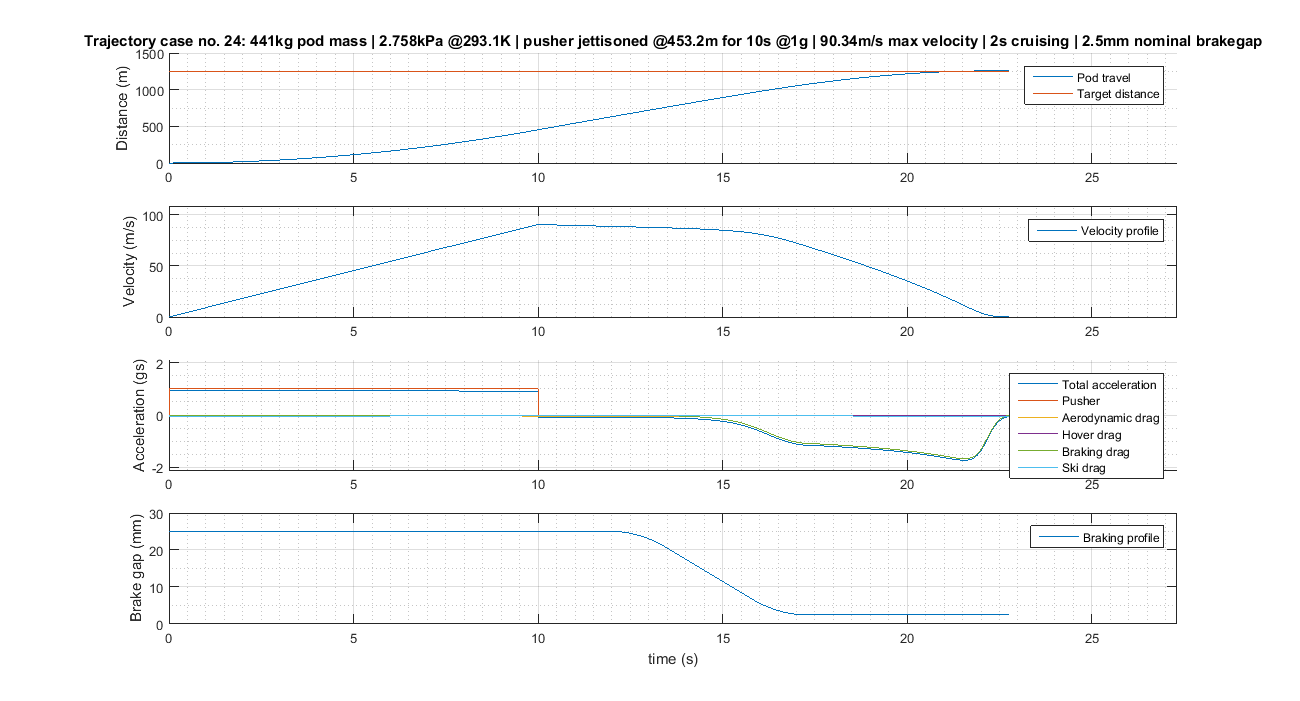
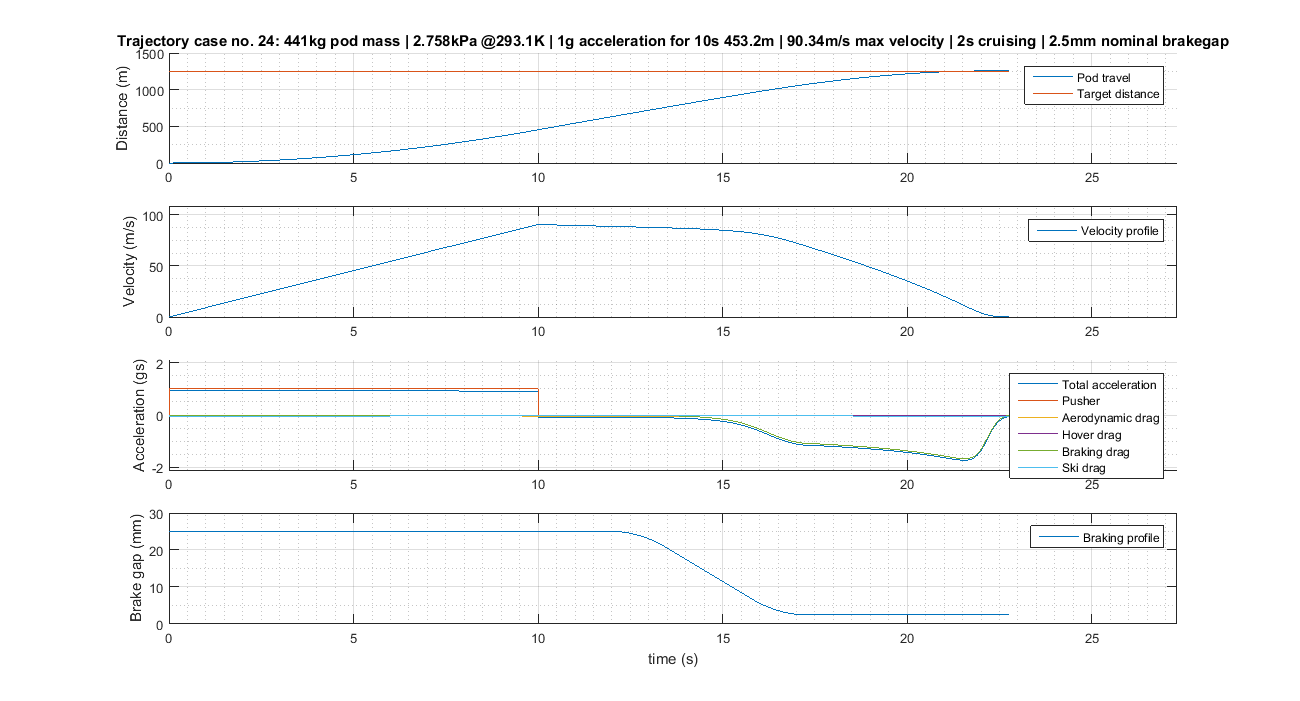
added case no. 24

Changed region(s): [[0.0615, 0.03, 0.9846, 0.0899]]

diff --git a/simParameters.m b/simParameters.m
@@ -2,11 +2,50 @@
 g = 9.81;                                   % Gravitational constant
 
 %Input
-caseno = 024;
+caseno = 025;
 
 %%%% Trajectory & Simulation Constraints %%%%
 switch caseno
     
+    case 025    % Run as deltat_pusher constrained
+        mpod = 441.;                % Total pod mass (kg)
+        dt = 0.001;                 % time step (s)
+        xf = 1250;                  % Target distance (m)
+        xdotf = 0.01;               % Target final velocity at xf (m/s)
+        gForce_pusher = 0.5;        % Pusher acceleration (g's)
+%         deltax_pusher = 312;     % Desired max push distance (max: 487.68m or 1600ft) (m)
+        deltax_pusher_max = 487.68; % Max push distance (max: 487.68m or 1600ft) (m)
+%         vpod_max = 90.;            % Constraint on max velocity (m/s)
+        deltat_pusher = 20;     % Desired max push distance (max: 487.68m or 1600ft) (m)
+        deltat_cruising = 2;        % Cruising time between pusher and deceleration phase (minimum 2s required) (s)
+%         gForce_brakedrag = 1.0;     % Constraint on max braking force (g's)
+        brakegapNom = 2.5;          % Nominal brake gap during controlled braking phase (mm)
+        deltax_dangerzone = 50;     % Distance between final target and end of track (DANGER ZONE!!!) (m)
+        z_nom = 0.016;              % Nominal hover height (m) based on pod mass and 8 hover engines
+        brakesmoving = false;       % booleam initial condition for brakes used in simulink code
+
+        %%%% Pressure %%%%
+        Ppsi = 0.4;              % Atmospheric air pressure inside SpaceX test tube (Psi)
+%         Ppsi = 0.1250;              % Atmospheric air pressure inside SpaceX test tube (Psi)
+%         Ppsi = 3.7188;              % Atmospheric air pressure inside SpaceX test tube (Psi)
+%         Ppsi = 7.3125;              % Atmospheric air pressure inside SpaceX test tube (Psi)
+%         Ppsi = 10.9063;             % Atmospheric air pressure inside SpaceX test tube (Psi)
+%         Ppsi = 14.5;                % Atmospheric air pressure inside SpaceX test tube (Psi)
+        
+        % Using ideal gas law, P = rho*R*T, solve for rho 
+        P = 6894.76*Ppsi;           % Atmospheric air pressure inside SpaceX test tube (Pa)
+        R = 287.05;                 % Ideal gas constant (J/(kg*K))
+        T = 293.15;                 % Atmospheric air temperature inside SpaceX test tube (K)
+        rho = P/(R*T);              % Air density inside SpaceX test tube(kg/m^3)
+%         rho = 0.100098;             % Air density inside SpaceX test tube(kg/m^3)
+%         rho = 1.2754;               % Standard Air density at 20 degC, sealevel(kg/m^3)
+
+        %%%% Relative Error (eta is positive for under-estimated case; negative for over-estimated case)%%%%
+        eta_aerodrag = 0.0;        % Estimated aerodynamic drag relative error
+        eta_hoverdrag = 0.0;       % Estimated hover-engine drag relative error
+        eta_brakedrag = 0.0;       % Estimated brake drag relative error
+        eta_skidrag = 0.0;         % Estimated ski drag relative error
+        
     case 024    % Run as deltat_pusher constrained
         mpod = 441.;                % Total pod mass (kg)
         dt = 0.001;                 % time step (s)

diff --git a/Trajectory.m b/Trajectory.m
@@ -243,7 +243,7 @@ axis([0 1.2*t(length(t)) 0 1.2*xf])
 
 grid on
 grid minor    
-title(['Trajectory case no. ' num2str(caseno) ': ' num2str(mpod) 'kg pod mass | ' num2str(P/1000,4) 'kPa @' num2str(T,4) 'K | pusher jettisoned @' num2str(x1,4) 'm for ' num2str(t1,2) 's @' num2str(gForce_pusher,2) 'g | ' num2str(xdot1,4) 'm/s max velocity | ' num2str(deltat_cruising,2) 's cruising | ' num2str(brakegapNom) 'mm nominal brakegap'])
+title(['Trajectory case no. ' num2str(caseno) ': ' num2str(mpod) 'kg pod mass | ' num2str(P/1000,4) 'kPa @' num2str(T,4) 'K | ' num2str(gForce_pusher,2) 'g acceleration for ' num2str(t1,2) 's ' num2str(x1,4) 'm | ' num2str(xdot1,4) 'm/s max velocity | ' num2str(deltat_cruising,2) 's cruising | ' num2str(brakegapNom) 'mm nominal brakegap'])
 ylabel('Distance (m)')
 legend('Pod travel','Target distance');
 
@@ -296,7 +296,7 @@ plot([xf+deltax_dangerzone xf+deltax_dangerzone],[0 1.1*xdot2],'r')
 axis([0 1.2*xf 0 1.1*xdot2])
 grid on
 grid minor
-title(['Trajectory case no. ' num2str(caseno) ': ' num2str(mpod) 'kg pod mass | ' num2str(P/1000,4) 'kPa @' num2str(T,4) 'K | pusher jettisoned @' num2str(x1,4) 'm for ' num2str(t1,2) 's @' num2str(gForce_pusher,2) 'g | ' num2str(xdot1,4) 'm/s max velocity | ' num2str(deltat_cruising,2) 's cruising | ' num2str(brakegapNom) 'mm nominal brakegap'])
+title(['Trajectory case no. ' num2str(caseno) ': ' num2str(mpod) 'kg pod mass | ' num2str(P/1000,4) 'kPa @' num2str(T,4) 'K | ' num2str(gForce_pusher,2) 'g acceleration for ' num2str(t1,2) 's ' num2str(x1,4) 'm | ' num2str(xdot1,4) 'm/s max velocity | ' num2str(deltat_cruising,2) 's cruising | ' num2str(brakegapNom) 'mm nominal brakegap'])
 %     formatSpec = 'PID Override Trigger for deltax_{dangerzone} = %0.fm';
 %formatSpec = 'PID Override Trigger';
 %str = sprintf(formatSpec,deltax_dangerzone);
